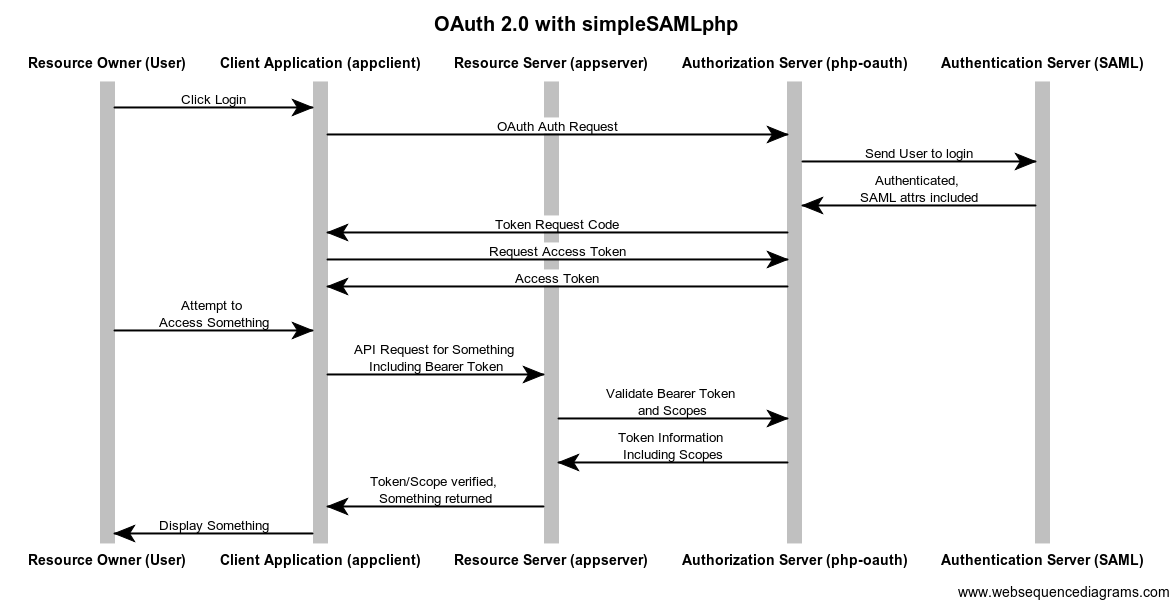
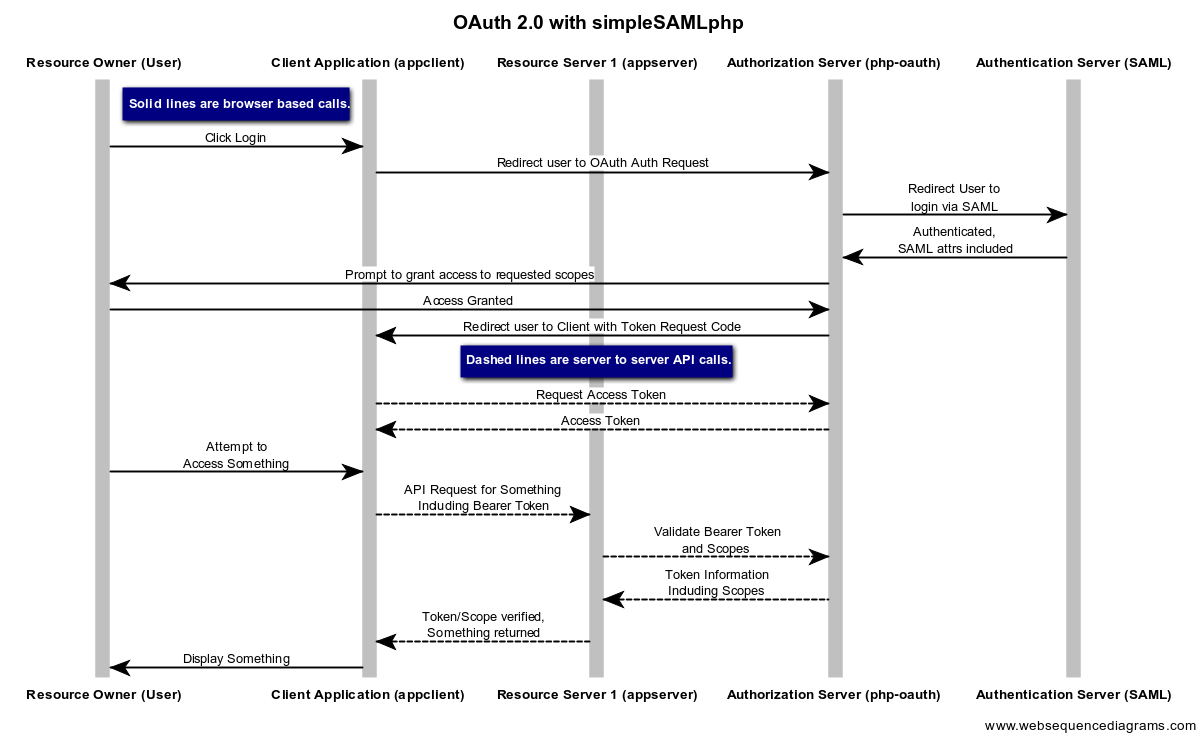
updated sequence diagram

Changed region(s): [[0.0, 0.0, 1.0, 1.0]]

diff --git a/README.md b/README.md
@@ -26,28 +26,45 @@ to the appserver.local host.
 
 
 ### Web Sequence Diagram ###
-[View Image](http://goo.gl/VtnSsg)
+[View Image](http://goo.gl/TuQZAd)
 
 
     title OAuth 2.0 with simpleSAMLphp
 
     participant Resource Owner (User) as User
     participant Client Application (appclient) as Client
-    participant Resource Server (appserver) as Server
+    participant Resource Server 1 (appserver) as Server1
     participant Authorization Server (php-oauth) as AuthZ
     participant Authentication Server (SAML) as AuthN
 
+    note right of User
+    Solid lines are browser based calls.
+    end note
+
     User->Client: Click Login
-    Client->AuthZ: OAuth Auth Request
-    AuthZ->AuthN: Send User to login
-    AuthN->AuthZ: Authenticated, \nSAML attrs included
-    AuthZ->Client: Token Request Code
-    Client->AuthZ: Request Access Token
-    AuthZ->Client: Access Token
-    User->Client: Attempt to \nAccess Something
-    Client->Server: API Request for Something \nIncluding Bearer Token
-    Server->AuthZ: Validate Bearer Token \nand Scopes
-    AuthZ->Server: Token Information \nIncluding Scopes
-    Server->Client: Token/Scope verified, \nSomething returned
+    Client->AuthZ: Redirect user to OAuth Auth Request
+    AuthZ->AuthN: Redirect User to\nlogin via SAML
+    AuthN->AuthZ: Authenticated,\nSAML attrs included
+    AuthZ->User: Prompt to grant access to requested scopes
+    User->AuthZ: Access Granted
+    AuthZ->Client: Redirect user to Client with Token Request Code
+
+    note over Server1
+    Dashed lines are server to server API calls.
+    end note
+
+    Client-->AuthZ: Request Access Token
+    AuthZ-->Client: Access Token
+    User->Client: Attempt to\nAccess Something
+    Client-->Server1: API Request for Something \nIncluding Bearer Token
+    Server1-->AuthZ: Validate Bearer Token\nand Scopes
+    AuthZ-->Server1: Token Information\nIncluding Scopes
+    Server1-->Client: Token/Scope verified,\nSomething returned
     Client->User: Display Something
+
+
+
+
+
+
 
